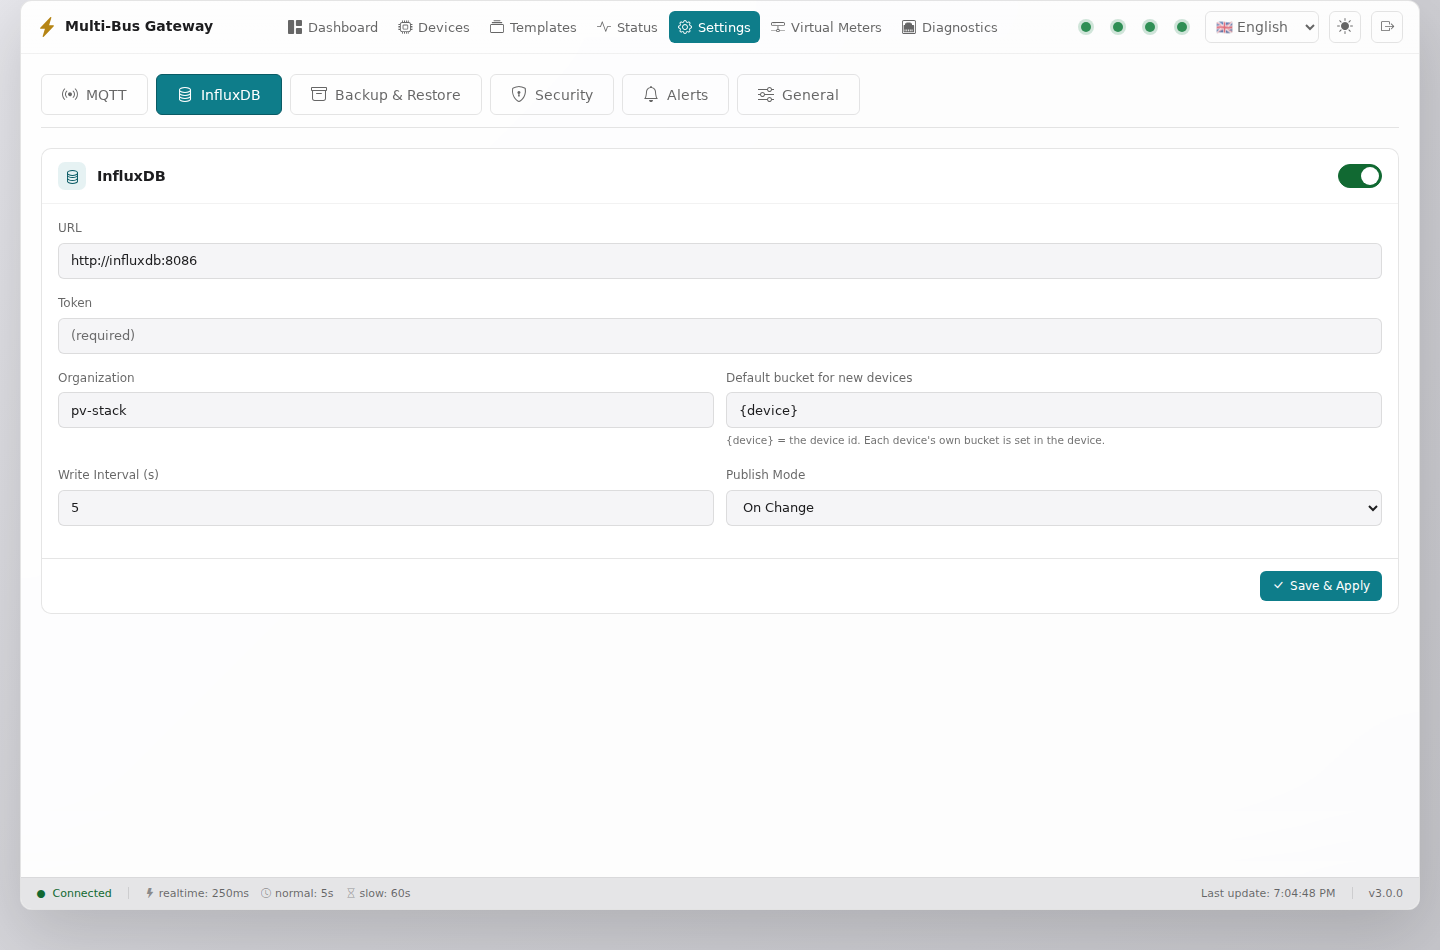
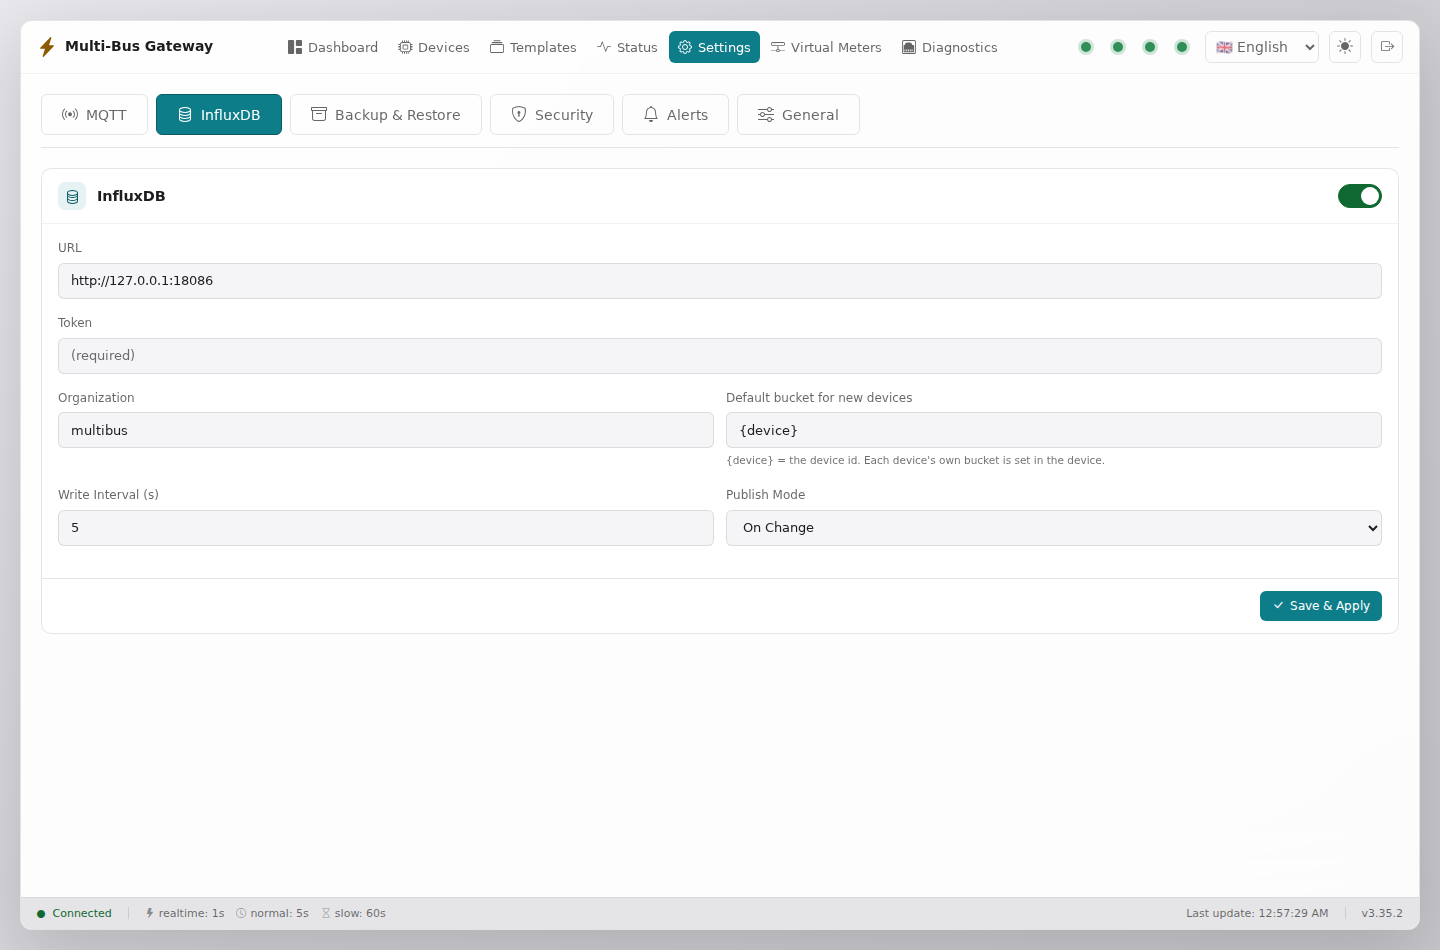
docs(guide): re-shoot all 18 UI screenshots on a synthetic demo instance
Every capture regenerated at v3.35.2 on an ephemeral demo environment —
loadtest Modbus simulators (3 sources + an EM24 virtual meter), throwaway
mosquitto + InfluxDB, demo accounts — with live flowing data and ZERO
production information (no real IPs, accounts, allowlists or org names).
Guide provenance text updated with the reproducible procedure.

diff --git a/docs/GHID-UI.md b/docs/GHID-UI.md
@@ -1,11 +1,12 @@
 # Ghid vizual al interfeței — Multi-Bus Gateway
 
 Un tur ilustrat al fiecărei pagini, sub-pagini și tab din interfața web, cu note
-explicative pentru operator/integrator. Capturile sunt făcute pe **instanța de
-producție** (instanța de producție a autorului), cu date reale: un **Janitza UMG 512-PRO** (Modbus
-TCP, 60 măsurători) și un **Fronius Meter** (Solar API / HTTP, 16 măsurători),
-plus două metere virtuale servite mai departe către Victron și Fronius
-DataManager. Bara de sus e identică peste tot: navigarea între pagini,
+explicative pentru operator/integrator. Capturile sunt făcute pe o **instanță
+demo completă** cu date vii (simulatoare de metere Modbus din `loadtest/`,
+broker MQTT + InfluxDB efemere, conturi demo): trei surse Modbus TCP —
+un meter principal și două EM24 — plus un meter virtual EM24 servit mai
+departe, exact fluxul unui deployment real, fără nicio informație de
+producție. Bara de sus e identică peste tot: navigarea între pagini,
 indicatorii de stare (dispozitive / MQTT / InfluxDB / vmeter — verde = ok),
 selectorul de limbă și comutatorul de temă (clar/întunecat).
 
@@ -239,7 +240,8 @@ topicul din ce publică brokerul, nu-l tastezi orb). Pasul 2 alege template-ul
 - **Limbă**: EN + RO incluse; se adaugă altele copiind un fișier din
   `ui/languages/`.
 
-*Capturi generate pe versiunea 3.0.0, din producția autorului. Când
-UI-ul se schimbă vizibil, re-generează-le fie logat pe producție (script
-Playwright cu login), fie pe o instanță efemeră cu auth off — și rulează scriptul
-de captură.*
+*Capturi generate pe versiunea 3.35.2, pe o instanță demo efemeră
+(simulatoare `loadtest/sim_devices.py` + broker/Influx de unică folosință,
+Playwright la 1440×950, login demo). Când UI-ul se schimbă vizibil,
+re-generează-le la fel — mediul demo se ridică în câteva minute și
+capturile rămân publicabile (zero date de producție).*
